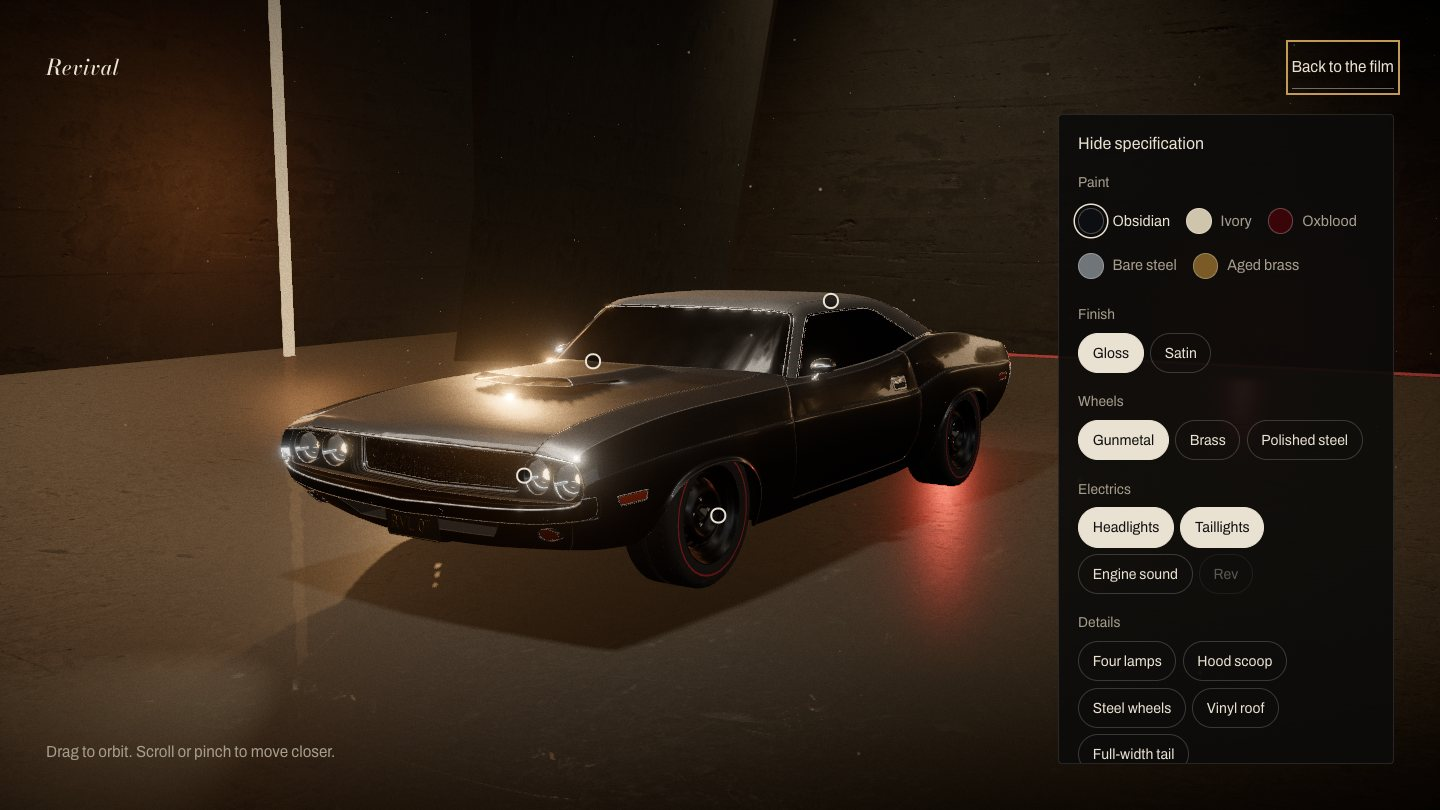
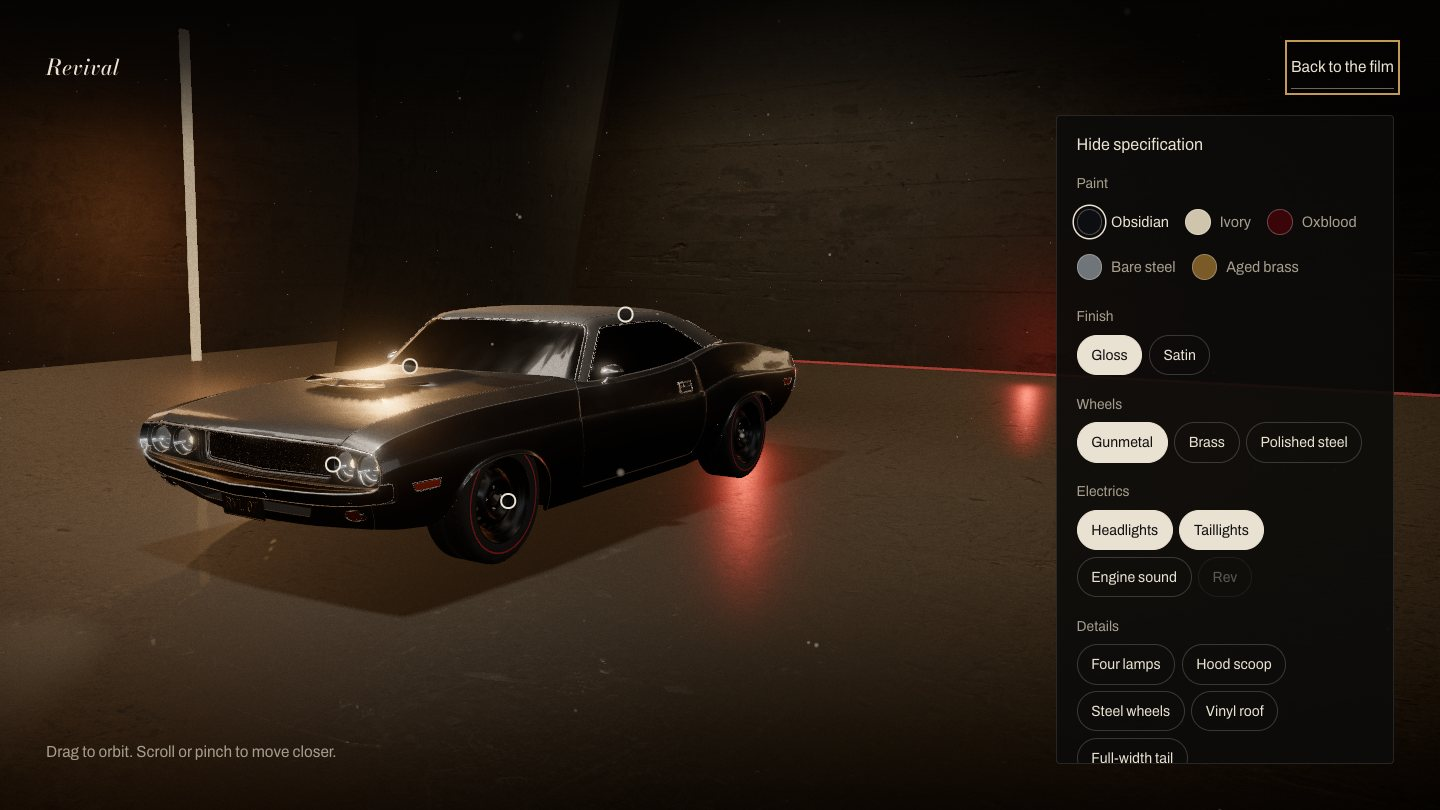
Fit the layout to every screen size
Keep the car clear of the open panel, follow each shot with the film band on
upright screens, and add a layout for phones held sideways.

diff --git a/src/styles.css b/src/styles.css
@@ -1,7 +1,7 @@
 :root { --ink: #e9e1d1; --dim: #a69d8c; --brass: #c29a56; --night: #080807; --crimson: #b3201d; --pad: clamp(1.1rem, 3.2vw, 3.2rem); color-scheme: dark;
   --display: 'Bodoni Moda Variable', 'Bodoni 72', Didot, serif; --text: 'Archivo Variable', 'Helvetica Neue', Arial, sans-serif; }
 * { box-sizing: border-box; margin: 0; }
-html { background: var(--night); scrollbar-width: none; }
+html { background: var(--night); scrollbar-width: none; font-size: clamp(100%, 60% + .45vw, 137.5%); }
 html::-webkit-scrollbar { display: none; }
 body { color: var(--ink); font: 400 1rem/1.5 var(--text); font-stretch: 94%; -webkit-font-smoothing: antialiased; overflow-x: hidden; }
 button, input { font: inherit; color: inherit; }
@@ -22,7 +22,7 @@ a { color: inherit; }
 .chapter > * { pointer-events: auto; }
 .bar { position: fixed; z-index: 6; inset: 0 0 auto; display: flex; justify-content: space-between; align-items: center; padding: var(--pad); pointer-events: none; }
 .bar > * { pointer-events: auto; }
-.mark { font: italic 500 1.35rem/1 var(--display); text-decoration: none; }
+.mark { font: italic 500 1.35rem/1 var(--display); text-decoration: none; padding: .4rem 0; }
 .link { padding: .55rem 0; border-bottom: 1px solid color-mix(in srgb, var(--ink) 45%, transparent); transition: border-color .25s, color .25s; }
 .link:hover { border-color: var(--brass); color: var(--brass); }
 h1, h2 { font-family: var(--display); font-weight: 400; line-height: .95; text-wrap: balance; }
@@ -31,7 +31,7 @@ h2 { font-size: clamp(2.1rem, 4.4vw, 4.4rem); letter-spacing: -.015em; }
 p { max-width: 34ch; text-wrap: pretty; }
 .chapter p { color: #cfc6b5; text-shadow: 0 0 24px #000, 0 1px 3px #000; }
 .hero { justify-content: space-between; opacity: var(--hero, 1); padding-top: var(--pad); }
-.hero h1 { font-size: clamp(5.4rem, 24.5vw, 30rem); letter-spacing: -.055em; line-height: .72; margin: clamp(3.4rem, 8vh, 6rem) 0 0 -.05em; mix-blend-mode: plus-lighter; color: #8d8473; font-style: italic; }
+.hero h1 { font-size: clamp(5.4rem, min(24.5vw, 44svh), 30rem); letter-spacing: -.055em; line-height: .72; margin: clamp(3.4rem, 8vh, 6rem) 0 0 -.05em; mix-blend-mode: plus-lighter; color: #8d8473; font-style: italic; }
 .hero .lede { position: absolute; right: var(--pad); bottom: calc(var(--pad) + 5.6rem); max-width: 21ch; font-size: clamp(1.05rem, 1.5vw, 1.4rem); line-height: 1.3; color: var(--ink); }
 .pull { display: grid; grid-template-columns: auto 1fr; gap: 1.4rem; align-items: center; font-size: 1.05rem; margin-top: auto; }
 .pull input { appearance: none; width: 100%; height: 3rem; background: linear-gradient(var(--ink), var(--ink)) center/100% 1px no-repeat; cursor: grab; touch-action: pan-y; }
@@ -43,7 +43,7 @@ p { max-width: 34ch; text-wrap: pretty; }
 .low.split { flex-direction: row; justify-content: space-between; align-items: flex-end; gap: 2rem; } .low.split h2 { max-width: 9ch; } .low.split div { display: grid; gap: 1.1rem; justify-items: start; }
 .low::before { content: ''; position: absolute; z-index: -1; inset: 50% 0 -20%; background: radial-gradient(34% 46% at 8% 56%, #050403d9, transparent); pointer-events: none; }
 .low.right::before { background: radial-gradient(34% 46% at 92% 56%, #050403d9, transparent); }
-.low.split::before { background: radial-gradient(34% 46% at 8% 56%, #050403d9, transparent), radial-gradient(26% 36% at 88% 62%, #050403d9, transparent); }
+.low.split div { position: relative; } .low.split div::before { content: ''; position: absolute; z-index: -1; inset: -6rem calc(-1 * var(--pad)) -4rem -5rem; background: radial-gradient(closest-side, #050403e6 20%, #05040399 55%, transparent); }
 .low.left { align-items: flex-start; }
 .switch, .cta { align-self: auto; padding: .8rem 1.4rem; border: 1px solid var(--ink); border-radius: 99px; transition: background .25s, color .25s; }
 .switch[data-on='true'], .cta, .switch:hover { background: var(--ink); color: #111; }
@@ -53,13 +53,14 @@ p { max-width: 34ch; text-wrap: pretty; }
 .profile .vast { max-width: 100%; white-space: nowrap; font-size: 7.6vw; }
 .dims { display: flex; gap: clamp(1.6rem, 6vw, 7rem); align-self: flex-end; font-variant-numeric: tabular-nums; }
 .dims dt { color: #d3cab9; font-size: .95rem; } .dims dd { margin: 0; font: 400 clamp(1.5rem, 2.8vw, 2.8rem)/1.1 var(--display); }
-.finale { justify-content: flex-end; gap: 1.4rem; } .finale .vast { font-size: clamp(2.4rem, 4.2vw, 5rem); letter-spacing: -.025em; max-width: 8ch; }
+.finale { justify-content: flex-end; gap: 1.4rem; } .finale .vast { font-size: clamp(2.4rem, 4.2vw, 5rem); letter-spacing: -.025em; max-width: 8ch; text-shadow: 0 0 2rem #000c; }
 .finale footer { display: flex; flex-wrap: wrap; gap: .4rem 3rem; font-size: .84rem; padding-top: 1rem; border-top: 1px solid color-mix(in srgb, var(--ink) 22%, transparent); }
 .finale footer p { max-width: 58ch; color: #d3cab9; }
 .film::before { content: ''; position: fixed; inset: 0; pointer-events: none; background: linear-gradient(#060504a6, transparent 24%, transparent 58%, #060504d9); }
 .cut { position: fixed; inset: 0; background: #050505; opacity: 0; pointer-events: none; z-index: 3; }
 .explore { position: fixed; inset: 0; z-index: 7; pointer-events: none; }
 .explore > * { pointer-events: auto; }
+.explore::before { content: ''; position: absolute; inset: 0 0 auto; height: 9rem; background: linear-gradient(#050403d9, #05040399 45%, transparent); }
 .hint { position: absolute; left: var(--pad); bottom: var(--pad); color: var(--dim); pointer-events: none; }
 .panel { position: absolute; right: var(--pad); bottom: var(--pad); width: min(21rem, calc(100vw - 2 * var(--pad))); background: #0c0b0ae8; border: 1px solid #ffffff1c; border-radius: 4px; max-height: calc(100svh - 10rem); display: flex; flex-direction: column; }
 .panel-toggle { padding: 1rem 1.2rem; text-align: left; font-size: 1.05rem; }
@@ -81,14 +82,28 @@ legend { color: var(--dim); font-size: .9rem; padding: 0 0 .45rem; }
 .loader { position: fixed; inset: 0; z-index: 10; background: var(--night); display: grid; place-content: center; gap: 1.2rem; justify-items: center; transition: opacity 1s .1s; font: italic 400 1.5rem var(--display); }
 .loader.is-done { opacity: 0; pointer-events: none; }
 .loader progress { width: 12rem; height: 1px; appearance: none; border: 0; background: #ffffff22; } .loader progress::-webkit-progress-bar { background: #ffffff22; } .loader progress::-webkit-progress-value { background: var(--brass); } .loader progress::-moz-progress-bar { background: var(--brass); }
+@media (max-aspect-ratio: 8/5) { .finale .vast { max-width: none; font-size: clamp(1.9rem, 3.6vw, 4rem); } }
 @media (max-aspect-ratio: 1/1) {
-  .screen canvas { inset: 12lvh 0 auto; height: 58lvh; object-position: 46% 50%; -webkit-mask: linear-gradient(transparent, #000 14%, #000 80%, transparent); mask: linear-gradient(transparent, #000 14%, #000 80%, transparent); }
+  /* a band whose height follows the shot (--band, set per frame), centred on the same line */
+  .screen canvas { --h: min(var(--band, .8) * 100vw, 58lvh); inset: calc(41lvh - var(--h) / 2) 0 auto; height: var(--h); object-position: 48% 50%; -webkit-mask: linear-gradient(transparent, #000 14%, #000 80%, transparent); mask: linear-gradient(transparent, #000 14%, #000 80%, transparent); }
+  .finale .vast { font-size: clamp(1.9rem, 8vw, 4rem); }
 }
 @media (max-width: 760px) {
   .hero .lede { right: auto; left: var(--pad); bottom: calc(var(--pad) + 5.4rem); max-width: 24ch; }
   .low.split { flex-direction: column; justify-content: flex-end; align-items: flex-start; gap: 1rem; }
   .profile .vast { white-space: normal; font-size: 17vw; }
   .pull { grid-template-columns: 1fr; gap: 0; } .dims { align-self: stretch; justify-content: space-between; gap: 1rem; }
-  .panel { left: var(--pad); width: auto; max-height: 46svh; } .hint { bottom: auto; top: calc(var(--pad) + 3.4rem); font-size: .9rem; } .note { bottom: auto; top: 7.4rem; }
+}
+@media (max-width: 760px), (max-aspect-ratio: 1/1) {
+  .panel { left: var(--pad); width: auto; max-height: 46svh; } .hint { bottom: auto; top: calc(var(--pad) + 3.6rem); font-size: .9rem; } .note { bottom: auto; top: 7.4rem; }
+}
+@media (max-height: 640px) and (max-aspect-ratio: 1/1) { .finale { gap: .8rem; } .finale footer { font-size: .76rem; padding-top: .7rem; } .finale footer p { line-height: 1.35; } .cta { padding: .75rem 1.5rem; } }
+/* phones on their side */
+@media (max-height: 500px) and (min-aspect-ratio: 1/1) {
+  .hero h1 { font-size: min(21vw, 40svh); margin-top: 2.6rem; } .hero .lede { bottom: auto; top: 4.6rem; font-size: 1rem; } .pull { font-size: .95rem; }
+  .chapter:not(.hero) { padding-top: calc(var(--pad) + 2.4rem); } .profile .vast { font-size: 6.2vw; }
+  .finale { gap: .6rem; } .finale .vast { max-width: none; font-size: 1.7rem; } .cta { padding: .55rem 1.3rem; font-size: 1rem; } .finale footer { font-size: .74rem; padding-top: .5rem; } .finale footer p { line-height: 1.3; }
+  .explore .bar { padding-block: .7rem; } .panel { left: auto; width: min(19rem, 46vw); max-height: calc(100svh - 4.6rem - var(--pad)); } .panel:not(.is-open) { width: auto; } .panel-toggle { padding: .7rem 1rem; }
+  .hint { top: auto; bottom: var(--pad); font-size: .85rem; } .note { top: auto; bottom: calc(var(--pad) + 2rem); max-width: 16rem; gap: .3rem; } .note h2 { font-size: 1.4rem; } .note p { font-size: .9rem; line-height: 1.35; }
 }
 @media (prefers-reduced-motion: reduce) { *, *::before, *::after { transition-duration: .01ms !important; } }

diff --git a/src/ui/Explore.tsx b/src/ui/Explore.tsx
@@ -17,7 +17,7 @@ function Radios({ name, legend, items, value, onChange, swatch }: { name: string
   )
 }
 export function Explore() {
-  const s = useStore(), close = useRef<HTMLButtonElement>(null), [open, setOpen] = useState(() => innerWidth > 760)
+  const s = useStore(), close = useRef<HTMLButtonElement>(null), [open, setOpen] = useState(() => innerWidth > 760 && innerHeight > 500 && innerWidth > innerHeight), panel = useRef<HTMLElement>(null)
   const exit = () => { engine.stop(); s.set({ mode: 'film', sound: false, hotspot: null }) }
   useEffect(() => {
     close.current?.focus({ preventScroll: true })
@@ -25,6 +25,13 @@ export function Explore() {
     addEventListener('keydown', k)
     return () => { removeEventListener('keydown', k) }
   }, []) // eslint-disable-line
+  // Tell the camera how much of the view the panel covers, so the car moves into the free part.
+  useEffect(() => {
+    const el = panel.current!
+    const on = () => { const r = el.getBoundingClientRect(), sheet = r.width > innerWidth * 0.7; useStore.getState().set({ inset: !open ? [0, 0] : sheet ? [0, innerHeight - r.top] : [innerWidth - r.left, 0] }) }
+    const o = new ResizeObserver(on); o.observe(el); addEventListener('resize', on); on()
+    return () => { o.disconnect(); removeEventListener('resize', on); useStore.getState().set({ inset: [0, 0] }) }
+  }, [open])
   const spot = HOTSPOTS.find((h) => h.id === s.hotspot)
   const sound = async () => { if (s.sound) { engine.stop(); s.set({ sound: false }) } else { await engine.start(); s.set({ sound: true }) } }
   return (
@@ -40,7 +47,7 @@ export function Explore() {
           <button className="link" onClick={() => s.set({ hotspot: null })}>Close note</button>
         </aside>
       )}
-      <section className={`panel ${open ? 'is-open' : ''}`} aria-label="Specification">
+      <section ref={panel} className={`panel ${open ? 'is-open' : ''}`} aria-label="Specification">
         <button className="panel-toggle" aria-expanded={open} onClick={() => setOpen(!open)}>{open ? 'Hide specification' : 'Specify the car'}</button>
         {open && <div className="panel-body">
           <Radios swatch name="paint" legend="Paint" items={PAINTS} value={s.paint} onChange={(i) => s.set({ paint: i })} />

diff --git a/src/explore/CameraRig.tsx b/src/explore/CameraRig.tsx
@@ -1,12 +1,24 @@
-import { useEffect } from 'react'
-import { useThree } from '@react-three/fiber'
+import { useEffect, useRef } from 'react'
+import { useFrame, useThree } from '@react-three/fiber'
 import { OrbitControls } from '@react-three/drei'
 import * as THREE from 'three'
 import { fitFov } from '../lib/fov'
+import { damp } from '../lib/math'
 import { useStore } from '../state/store'
 import { START } from './start'
 export function CameraRig() {
   const camera = useThree((s) => s.camera) as THREE.PerspectiveCamera, size = useThree((s) => s.size), reduced = useStore((s) => s.reduced), hotspot = useStore((s) => s.hotspot)
-  useEffect(() => { camera.fov = fitFov(START.fov, size.width / size.height); camera.updateProjectionMatrix() }, [camera, size])
+  // Starts uncovered, to match the film's last frame, then eases into the part of the view the panel leaves free.
+  const cover = useRef<[number, number]>([0, 0]), applied = useRef('')
+  useEffect(() => { applied.current = ''; return () => camera.clearViewOffset() }, [camera, size])
+  useFrame((_, dt) => {
+    const [x, y] = useStore.getState().inset, c = cover.current
+    for (const [i, goal] of [x, y].entries()) c[i] = reduced || Math.abs(goal - c[i]) < 0.5 ? goal : damp(c[i], goal, 4, Math.min(dt, 0.05))
+    const key = c.join()
+    if (key === applied.current) return
+    applied.current = key
+    camera.fov = fitFov(START.fov, (size.width - c[0]) / size.height)
+    camera.setViewOffset(size.width, size.height, c[0] / 2, c[1] / 2, size.width, size.height) // also updates the projection
+  })
   return <OrbitControls makeDefault target={START.look as unknown as THREE.Vector3} enablePan={false} minDistance={3.2} maxDistance={9} minPolarAngle={0.5} maxPolarAngle={1.53} enableDamping={!reduced} dampingFactor={0.06} rotateSpeed={0.7} autoRotate={!reduced && !hotspot} autoRotateSpeed={0.25} />
 }

diff --git a/src/ui/Film.tsx b/src/ui/Film.tsx
@@ -2,7 +2,7 @@ import { useEffect, useRef, useState, type ReactNode } from 'react'
 import { clamp } from '../lib/math'
 import { useStore } from '../state/store'
 import { FilmPlayer } from '../film/player'
-import { FRAMES, LENGTH, REVEAL_END, progress } from '../film/timeline'
+import { band, FRAMES, LENGTH, REVEAL_END, progress } from '../film/timeline'
 import { CREDIT } from './content'
 
 declare global { interface Window { __film?: FilmPlayer } }
@@ -23,7 +23,7 @@ export function Film({ onEnter, preload }: { onEnter: () => void; preload: () =>
     // phones take the 6 MB set: the band is under 500 CSS pixels tall there
     const iw = innerWidth || screen.width, ih = innerHeight || screen.height
     const small = (iw < 760 && matchMedia('(pointer: coarse)').matches) || Math.max(iw, ih * 0.9) * Math.min(devicePixelRatio, 2) < 1300
-    const p = new FilmPlayer(canvas.current!, small ? 'film/960' : 'film/1600', { window: small ? 28 : 40, smooth: !reduced, onFirst: () => setReady(true), onProgress: (k) => { if (k % 16 === 0 || k === FRAMES) setN(k) } })
+    const p = new FilmPlayer(canvas.current!, small ? 'film/960' : 'film/1600', { window: small ? 28 : 40, smooth: !reduced, onFirst: () => setReady(true), onFrame: (f) => canvas.current?.style.setProperty('--band', band(f).toFixed(4)), onProgress: (k) => { if (k % 16 === 0 || k === FRAMES) setN(k) } })
     player.current = p; window.__film = p
     return () => p.dispose()
   }, [reduced])

diff --git a/tests/film.test.ts b/tests/film.test.ts
@@ -1,5 +1,5 @@
 import { describe, expect, it } from 'vitest'
-import { CUTS, FRAMES, REVEAL_END, frameAt, loadOrder, nearest, progress, shot } from '../src/film/timeline'
+import { band, CUTS, FRAMES, REVEAL_END, frameAt, loadOrder, nearest, progress, shot } from '../src/film/timeline'
 import { fitFov } from '../src/lib/fov'
 import { START } from '../src/explore/start'
 import { readFileSync } from 'node:fs'
@@ -13,6 +13,9 @@ describe('timeline', () => {
   it('finishes the reveal exactly where the slider ends', () => { expect(frameAt(REVEAL_END)).toBe(150) })
   it('passes over the camera cuts in a sliver of scroll', () => { expect(frameAt(0.838)).toBe(280); expect(frameAt(0.841)).toBe(281); expect(frameAt(0.925)).toBe(304); expect(frameAt(0.928)).toBe(305) })
   it('agrees with Blender on where the cuts are', () => { const py = readFileSync('blender/film.py', 'utf8'); expect(CUTS).toEqual([Number(/k\[0\]<(\d+)\)==/.exec(py)![1]), Number(/^CUT=(\d+)/m.exec(py)![1])]); expect(shot(280)).toBe(0); expect(shot(281)).toBe(1); expect(shot(305)).toBe(2) })
+})
+describe('upright screens', () => {
+  it('never shows less than the full film height or a jump within a shot', () => { for (let f = 0; f < FRAMES; f++) { expect(band(f)).toBeGreaterThan(0.5625); if (f && shot(f) === shot(f - 1)) expect(Math.abs(band(f) - band(f - 1))).toBeLessThan(0.02) } })
 })
 describe('loading', () => {
   it('requests every frame once, coarse first', () => {

diff --git a/src/film/player.ts b/src/film/player.ts
@@ -14,7 +14,7 @@ export class FilmPlayer {
   private abort = new AbortController()
   private g: CanvasRenderingContext2D
   readonly stats = { loaded: 0, bytes: 0, decodes: 0, drawMs: [] as number[], ticks: [] as number[] }
-  constructor(private canvas: HTMLCanvasElement, private dir: string, private o: { window: number; smooth: boolean; onFirst: () => void; onProgress: (n: number) => void }) {
+  constructor(private canvas: HTMLCanvasElement, private dir: string, private o: { window: number; smooth: boolean; onFirst: () => void; onFrame?: (f: number) => void; onProgress: (n: number) => void }) {
     this.g = canvas.getContext('2d', { alpha: false })!
     void this.load(); this.raf = requestAnimationFrame(this.tick)
   }
@@ -56,7 +56,7 @@ export class FilmPlayer {
     if (show >= 0 && show !== this.drawn) {
       const t = performance.now(), b = this.bitmaps.get(show)!
       if (this.canvas.width !== b.width) { this.canvas.width = b.width; this.canvas.height = b.height }
-      this.g.drawImage(b, 0, 0); if (this.drawn < 0) this.o.onFirst(); this.drawn = show
+      this.g.drawImage(b, 0, 0); if (this.drawn < 0) this.o.onFirst(); this.drawn = show; this.o.onFrame?.(show)
       this.stats.drawMs.push(performance.now() - t); if (this.stats.drawMs.length > 300) this.stats.drawMs.shift()
     }
   }

diff --git a/src/film/timeline.ts b/src/film/timeline.ts
@@ -16,6 +16,13 @@ export function frameAt(s: number): number {
   while (i < MAP.length - 2 && t > MAP[i + 1][0]) i++
   return lerp(MAP[i][1], MAP[i + 1][1], invLerp(MAP[i][0], MAP[i + 1][0], t))
 }
+/** Upright screens: height of the film band as a share of its width, per frame, so the car's ends stay in view. A full 16:9 frame is 0.5625. */
+const BAND: readonly [number, number][] = [[0, 0.74], [60, 0.8], [150, 0.86], [186, 0.95], [190, 0.95], [226, 0.68], [236, 0.68], [266, 0.95], [280, 0.95], [281, 0.68], [304, 0.8], [305, 0.86], [319, 0.86]]
+export function band(f: number): number {
+  let i = 0
+  while (i < BAND.length - 2 && f >= BAND[i + 1][0]) i++
+  return lerp(BAND[i][1], BAND[i + 1][1], invLerp(BAND[i][0], BAND[i + 1][0], f))
+}
 /** Coarse-to-fine download order: the film is scrubbable after ~20 frames and sharpens in time as the rest arrive. */
 export function loadOrder(n = FRAMES): number[] {
   const seen = new Set<number>(), out: number[] = []

diff --git a/src/state/store.ts b/src/state/store.ts
@@ -16,9 +16,11 @@ export const TRIMS = [
 interface S {
   mode: Mode; tier: Tier; tierLocked: boolean; live: boolean; reduced: boolean; webgl: boolean
   paint: number; finish: number; trim: number; head: boolean; tail: boolean; hotspot: string | null; sound: boolean
+  /** Pixels of the realtime view covered by the open panel: from the right edge, and from the bottom. */
+  inset: readonly [number, number]
   set: (p: Partial<S>) => void
 }
 export const useStore = create<S>((set) => ({
   mode: 'film', tier: 'high', tierLocked: false, live: false, reduced: false, webgl: true,
-  paint: 0, finish: 0, trim: 0, head: true, tail: true, hotspot: null, sound: false, set: (p) => set(p),
+  paint: 0, finish: 0, trim: 0, head: true, tail: true, hotspot: null, sound: false, inset: [0, 0], set: (p) => set(p),
 }))

diff --git a/README.md b/README.md
@@ -60,7 +60,7 @@ Taken on 25 November 2026 on a MacBook Air (Apple M5, 32 GB, macOS 26.6) with he
 
 First frame appeared in 80 to 140 ms locally. On the live GitHub Pages site, over one home connection of unmeasured speed and a cold cache, one run each showed the first frame after 0.43 s (desktop) and 0.61 s (phone emulation), and the complete film after 8.6 s and 8.4 s; it can be scrubbed before that. The same checks pass there. Initial JavaScript is 76 KB gzipped; Three.js and the scene add 395 KB gzipped and the car model 1.6 MB, only when a visitor heads for the realtime view.
 
-Automated checks: 22 of 22 pass, including axe (WCAG 2 A/AA, 2.1 AA, 2.2 AA rules) with no violations in the film, the realtime view and the fallback. Axe could not judge the contrast of text over imagery; that was reviewed by eye. 9 of 9 unit tests pass.
+Automated checks: 22 of 22 pass, including axe (WCAG 2 A/AA, 2.1 AA, 2.2 AA rules) with no violations in the film, the realtime view and the fallback. Axe could not judge the contrast of text over imagery; that was reviewed by eye. 10 of 10 unit tests pass.
 
 Not tested: real phones, Safari, Firefox, screen readers, slow networks.
 
